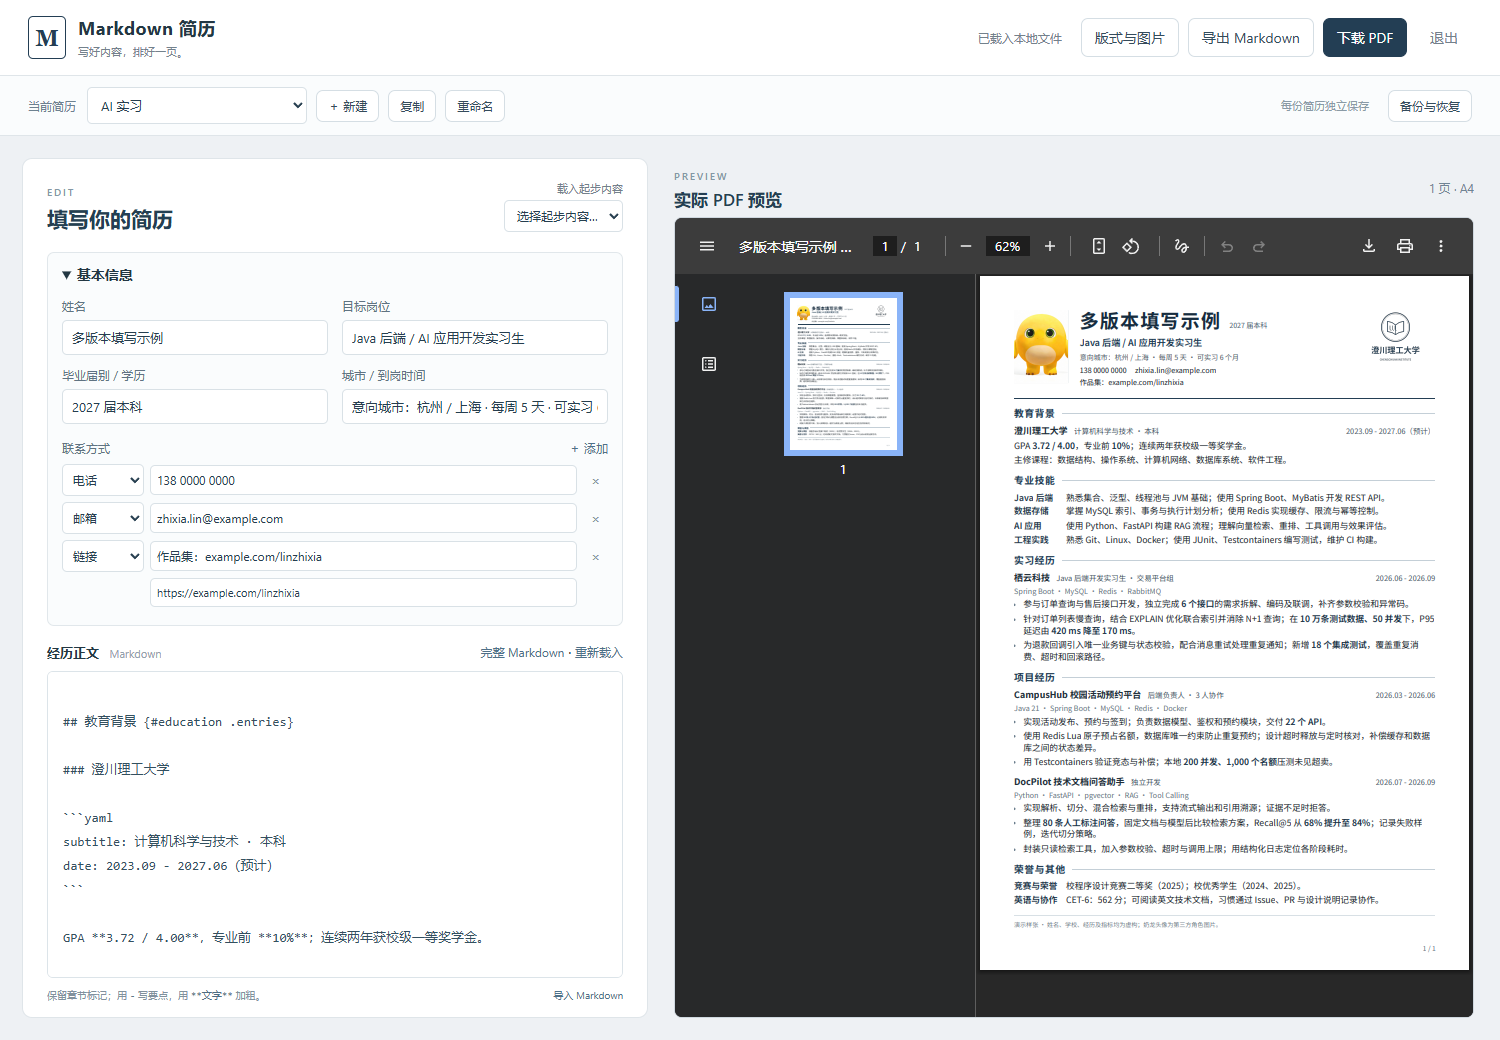
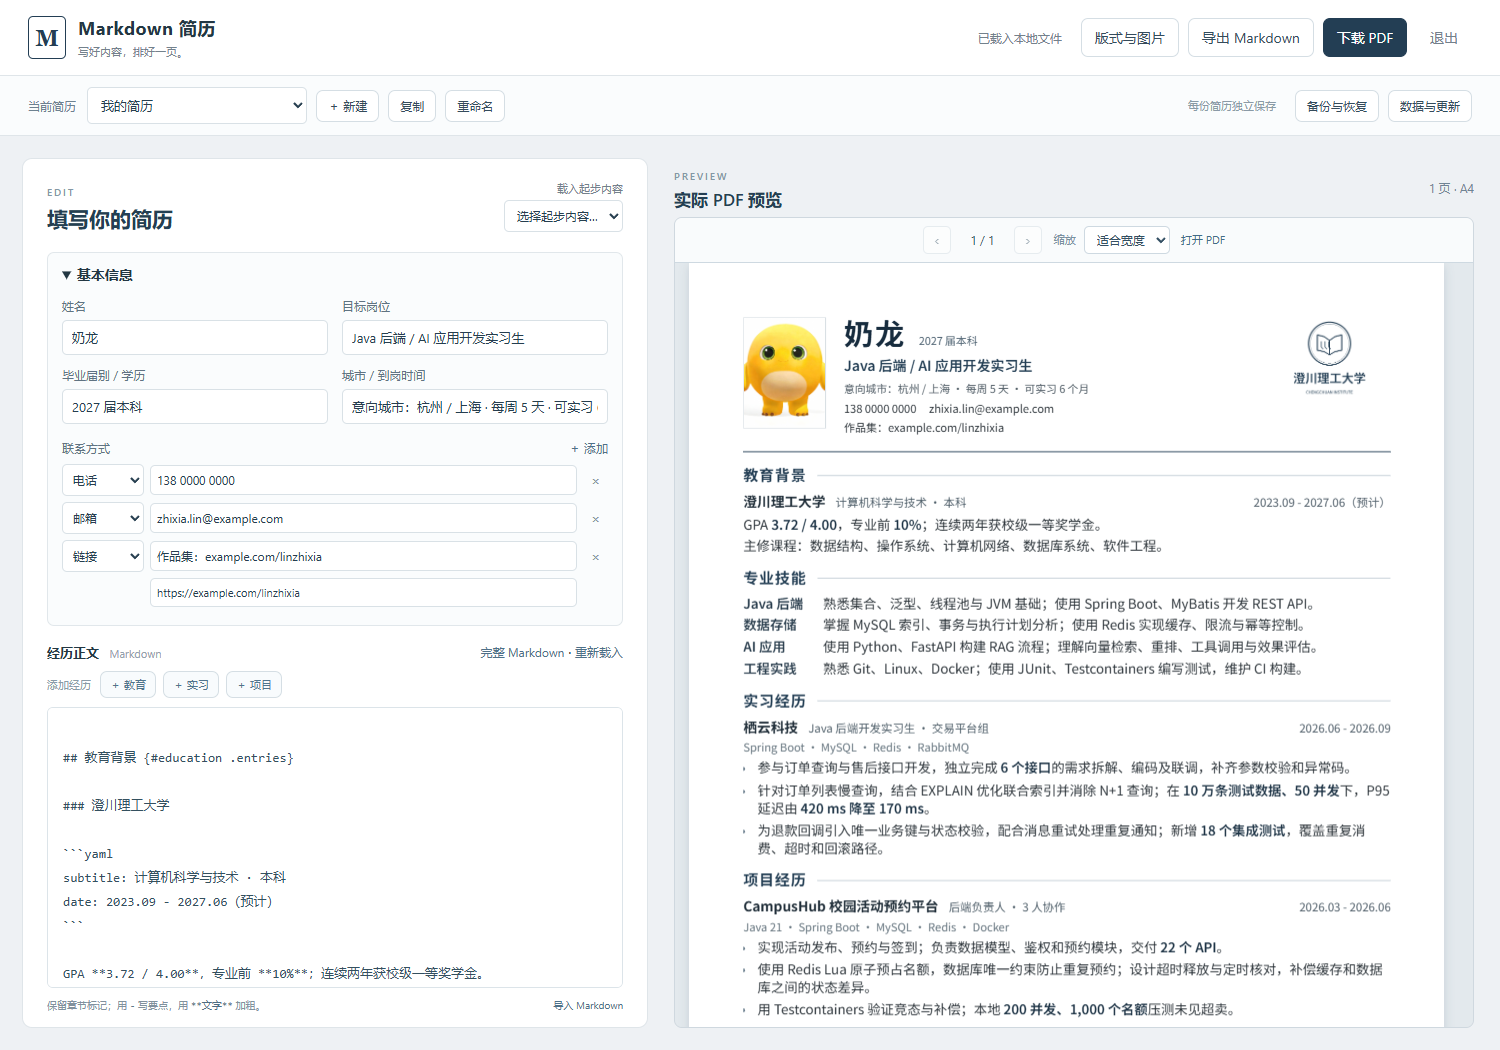
release: prepare v0.7.0 resume editing and data management

diff --git a/scripts/package-windows.py b/scripts/package-windows.py
@@ -70,6 +70,9 @@ with tempfile.TemporaryDirectory(prefix='windows-', dir=output) as staging:
             (runtime / ('NODE-LICENSE.txt' if filename == 'LICENSE' else filename)).write_bytes(source.read(f'{node_name}/{filename}'))
     for folder in browser_folders:
         shutil.copytree(cache / folder, runtime / 'browsers' / folder)
+    winldd = runtime / 'browsers' / f"winldd-{revisions['winldd']}"
+    shutil.copy2(root / 'desktop/winldd-LICENSE.txt', winldd / 'LICENSE.PrintDeps.txt')
+    shutil.copy2(root / 'node_modules/playwright-core/LICENSE', winldd / 'LICENSE.Apache-2.0.txt')
     subprocess.run([str(compiler), '/nologo', '/target:winexe', '/platform:x64', '/codepage:65001', '/reference:System.Windows.Forms.dll', '/reference:System.Web.Extensions.dll', f'/out:{stage / "启动简历.exe"}', str(root / 'desktop/Launcher.cs')], check=True)
     shutil.copy2(root / 'desktop/README.md', stage / '使用说明.md')
     shutil.copy2(root / 'LICENSE', stage / 'LICENSE')

diff --git a/README.md b/README.md
@@ -8,25 +8,27 @@
 
 [校招样张 PDF](output/pdf/campus-ink-blue.pdf) · [AI 实习样张 PDF](output/pdf/ai-intern-ink-blue.pdf) · [两页经验样张 PDF](output/pdf/experienced-ink-blue.pdf) · [可直接填写的 resume.md](resume.md) · [版式配置](layout.yaml)
 
-**公开版本 v0.6.0。** 一个墨蓝主风格，提供校招与工作经验编排；支持一页/两页 PDF、独立图片配置、模块排序，以及实际 PDF 的本地自动刷新预览。长标题、长链接、内容增减、长项目续页和照片方向已通过专项验证。
+**公开版本 v0.7.0。** 一个墨蓝主风格，提供校招与工作经验编排；支持照片裁剪、经历表单、多份简历、数据目录迁移、备份恢复，以及可翻页和缩放的离线 PDF 预览。
 
 校招样张使用“奶龙”姓名和白底竖版头像。图片来源与许可信息集中记录在[素材说明](assets/README.md)。
 
 ## 下载使用
 
-[下载 Windows 免安装包](https://github.com/MoChiUaena/tech-resume-kit/releases/download/v0.6.0/tech-resume-windows-x64-0.6.0.zip) · Windows 10 / 11 x64 · 约 187 MB
+[下载 Windows 免安装包](https://github.com/MoChiUaena/tech-resume-kit/releases/download/v0.7.0/tech-resume-windows-x64-0.7.0.zip) · Windows 10 / 11 x64 · 约 197 MB
 
 1. 完整解压，双击 **启动简历.exe**。
 2. 在打开的页面填写基本信息和 Markdown 经历，右侧自动更新实际 PDF 预览。
 3. 点击 **下载 PDF**。
 
-照片、校徽和版式通过“版式与图片”设置。修改自动保存到 `my-resume/`，再次启动可以继续编辑。
+照片、校徽和版式通过“版式与图片”设置，照片可裁剪为 23:31。正文上方可用表单添加教育、实习和项目经历，修改自动保存，重启后可以继续编辑。
 
 “当前简历”支持新建、复制、重命名和切换，每份简历有独立正文、版式、图片与历史。“备份与恢复”可以立即备份、下载包含图片的完整 ZIP，以及恢复历史版本或备份文件；恢复前先保留当前内容。有修改时每 5 分钟生成自动版本，切换或退出前也会保存。
 
-旧版 `resume.md`、`layout.yaml`、图片与 `backups/` 留在原位置，升级后作为第一份简历。新简历存入 `my-resume/resumes/`，新版完整备份在 `my-resume/history/`，列表保存在 `my-resume/library.json`。复制整个 `my-resume/` 文件夹即可迁移全部资料；完整备份 ZIP 对应当前选中的一份简历。
+数据默认保存到 `%LOCALAPPDATA%\TechResumeKit\data`，与程序分开。“数据与更新”显示实际位置，可迁移全部资料或打开已有简历库。从 v0.6.0 升级时会识别旧版 `my-resume`，迁移前保存整库副本并核对文件，原目录保留。完整备份 ZIP 对应当前选中的一份简历；复制整个数据文件夹可保存全部简历与历史。
 
-运行所需资源随包提供，解压后可断网使用。[使用入口的参考与说明](docs/usability.md)记录了同类项目的流程比较。开发者可下载 [TGZ](https://github.com/MoChiUaena/tech-resume-kit/releases/download/v0.6.0/tech-resume-kit-0.6.0.tgz)，通过 ESM API 或 JSON 命令复用排版，见[调用接口](docs/api.md)。
+“检查正式版本”可以下载并核验新版安装包，支持暂停、断线续传和重启后继续。点击“保存并打开新版”才切换程序，切换前会保存整库副本，启动失败时尝试返回原程序。
+
+运行所需资源随包提供，解压后可断网使用。[使用入口的参考与说明](docs/usability.md)记录了同类项目的流程比较。开发者可下载 [TGZ](https://github.com/MoChiUaena/tech-resume-kit/releases/download/v0.7.0/tech-resume-kit-0.7.0.tgz)，通过 ESM API 或 JSON 命令复用排版，见[调用接口](docs/api.md)。
 
 ## 从源码开始
 
@@ -44,7 +46,7 @@ Linux 可能需要用 `npx playwright install --with-deps chromium` 安装系统
 
 `npm run app` 打开同一套本地编辑页面，默认使用独立数据目录；Windows 为 `%LOCALAPPDATA%\TechResumeKit\data`。“数据与更新”显示实际路径，可迁移整库或打开已有简历库。指定位置可用 `npm run app -- --dir personal/my-resume`。macOS 默认保存在 `~/Library/Application Support/TechResumeKit/data`，Linux 为 `~/.local/share/TechResumeKit/data`（支持 `XDG_DATA_HOME`）。
 
-源码开发版增加了照片裁剪、经历表单和数据目录管理。首次启动会识别程序旁或同级旧版下载目录中的 `my-resume`；找到唯一旧库时自动迁入，也可以手动迁入。迁移先保存整库副本，再核对所有文件，原目录保留。Windows 开发包还支持检查正式版本、核验下载包、保存后切换和启动失败回退。当前正式下载仍为 v0.6.0；开发变更见[变更记录](docs/changelog.md)，集中发布规则见[维护说明](docs/maintaining.md)。
+完整变更见[变更记录](docs/changelog.md)，数据位置与更新方式见[数据与更新](docs/data-and-updates.md)。日常改动先同步源码和 CI，积累一组功能后集中发布，见[维护说明](docs/maintaining.md)。
 
 如需使用命令行，先创建独立起步目录：
 

diff --git a/docs/changelog.md b/docs/changelog.md
@@ -1,6 +1,6 @@
 # 变更记录
 
-## 开发中
+## v0.7.0 - 简历编辑与数据管理
 
 - 照片裁剪支持拖动、缩放、旋转和重置，保存为 23:31 竖版 JPEG；调整已有照片前保留历史备份。
 - 教育、实习与项目经历可通过表单添加，自动生成 Markdown 条目和日期字段，并合并到对应章节。
@@ -12,4 +12,4 @@
 - 小窗口中的“数据与更新”弹窗固定标题与关闭按钮，并显示下载进度和继续下载入口。
 - 编辑器与命令行预览使用随包提供的离线 PDF 预览器，支持翻页、缩放、文本选择和正文链接；解决内置浏览器的原生 PDF 预览黑屏。
 
-当前正式发布仍为 `v0.6.0`，以上功能先随源码开发版验证。版本发布规则见[维护说明](maintaining.md)。
+从 v0.6.0 升级时，首次启动会识别旧版 `my-resume`，迁移前保留整库副本。其他位置的资料可以通过“数据与更新 → 迁入旧版 my-resume”选择。版本发布规则见[维护说明](maintaining.md)。

diff --git a/docs/api.md b/docs/api.md
@@ -1,14 +1,14 @@
 # 安装与调用 API
 
-从 [GitHub Release](https://github.com/MoChiUaena/tech-resume-kit/releases/latest) 下载 `tech-resume-kit-0.6.0.tgz`，在自己的 Node.js 项目中安装：
+从 [GitHub Release](https://github.com/MoChiUaena/tech-resume-kit/releases/latest) 下载 `tech-resume-kit-0.7.0.tgz`，在自己的 Node.js 项目中安装：
 
 ```sh
-npm install ./tech-resume-kit-0.6.0.tgz
+npm install ./tech-resume-kit-0.7.0.tgz
 npx playwright install chromium
 npx tech-resume init --dir my-resume --template blank
 ```
 
-需要 Node.js 22+，公共入口为 ESM，附带 TypeScript 类型声明。代码与字体随包提供，首次下载依赖和浏览器后可以离线导出。当前通过 GitHub 分发，没有发布到 npm 注册表。
+需要 Node.js 22.13+，公共入口为 ESM，附带 TypeScript 类型声明。代码与字体随包提供，首次下载依赖和浏览器后可以离线导出。当前通过 GitHub 分发，没有发布到 npm 注册表。
 
 ## JavaScript / TypeScript
 

diff --git a/docs/content-model.md b/docs/content-model.md
@@ -1,6 +1,6 @@
 # 内容模型与接口
 
-`ResumeDocument` 与 `LayoutConfig` 的 `schemaVersion` 均为 `0.2.0`。GitHub v0.6.0 提供可安装 TGZ、公共 ESM 入口和 TypeScript 类型声明，见[调用接口](api.md)。与阶段 A 的 `0.1.0` 相比，条目和普通章节改用 `blocks`，以保留“段落 → 列表 → 段落”的原始阅读顺序。0.1.0 JSON 仅作为回归基准，不能直接传入新版渲染器。
+`ResumeDocument` 与 `LayoutConfig` 的 `schemaVersion` 均为 `0.2.0`。GitHub v0.7.0 提供可安装 TGZ、公共 ESM 入口和 TypeScript 类型声明，见[调用接口](api.md)。与阶段 A 的 `0.1.0` 相比，条目和普通章节改用 `blocks`，以保留“段落 → 列表 → 段落”的原始阅读顺序。0.1.0 JSON 仅作为回归基准，不能直接传入新版渲染器。
 
 ## ResumeDocument
 

diff --git a/docs/workbench-handoff.md b/docs/workbench-handoff.md
@@ -1,6 +1,6 @@
 # 本地简历工作台接入说明
 
-套件版本 `0.6.0`，内容与版式模型 `schemaVersion: "0.2.0"`。GitHub Release 提供可安装的 TGZ，公共 ESM 入口和 TypeScript 类型声明见[调用接口](api.md)。
+套件版本 `0.7.0`，内容与版式模型 `schemaVersion: "0.2.0"`。GitHub Release 提供可安装的 TGZ，公共 ESM 入口和 TypeScript 类型声明见[调用接口](api.md)。
 
 Node.js 调用方可直接使用 `renderResume(document, layout, { assetBase })`，再调用 `inspectAndExport(rendered, { pdf: true })` 取得 PDF 字节、真实页数和排版检查结果。Java 等调用方可用 `ProcessBuilder` 执行：
 

diff --git a/starter/README.md b/starter/README.md
@@ -1,6 +1,6 @@
 # 开始填写简历
 
-先解压整个 ZIP，安装 Node.js 22 或更高版本。首次安装需要联网下载依赖和 Chromium；之后预览和导出在本地运行。
+先解压整个 ZIP，安装 Node.js 22.13 或更高版本。首次安装需要联网下载依赖和 Chromium；之后预览和导出在本地运行。
 
 Windows：
 
